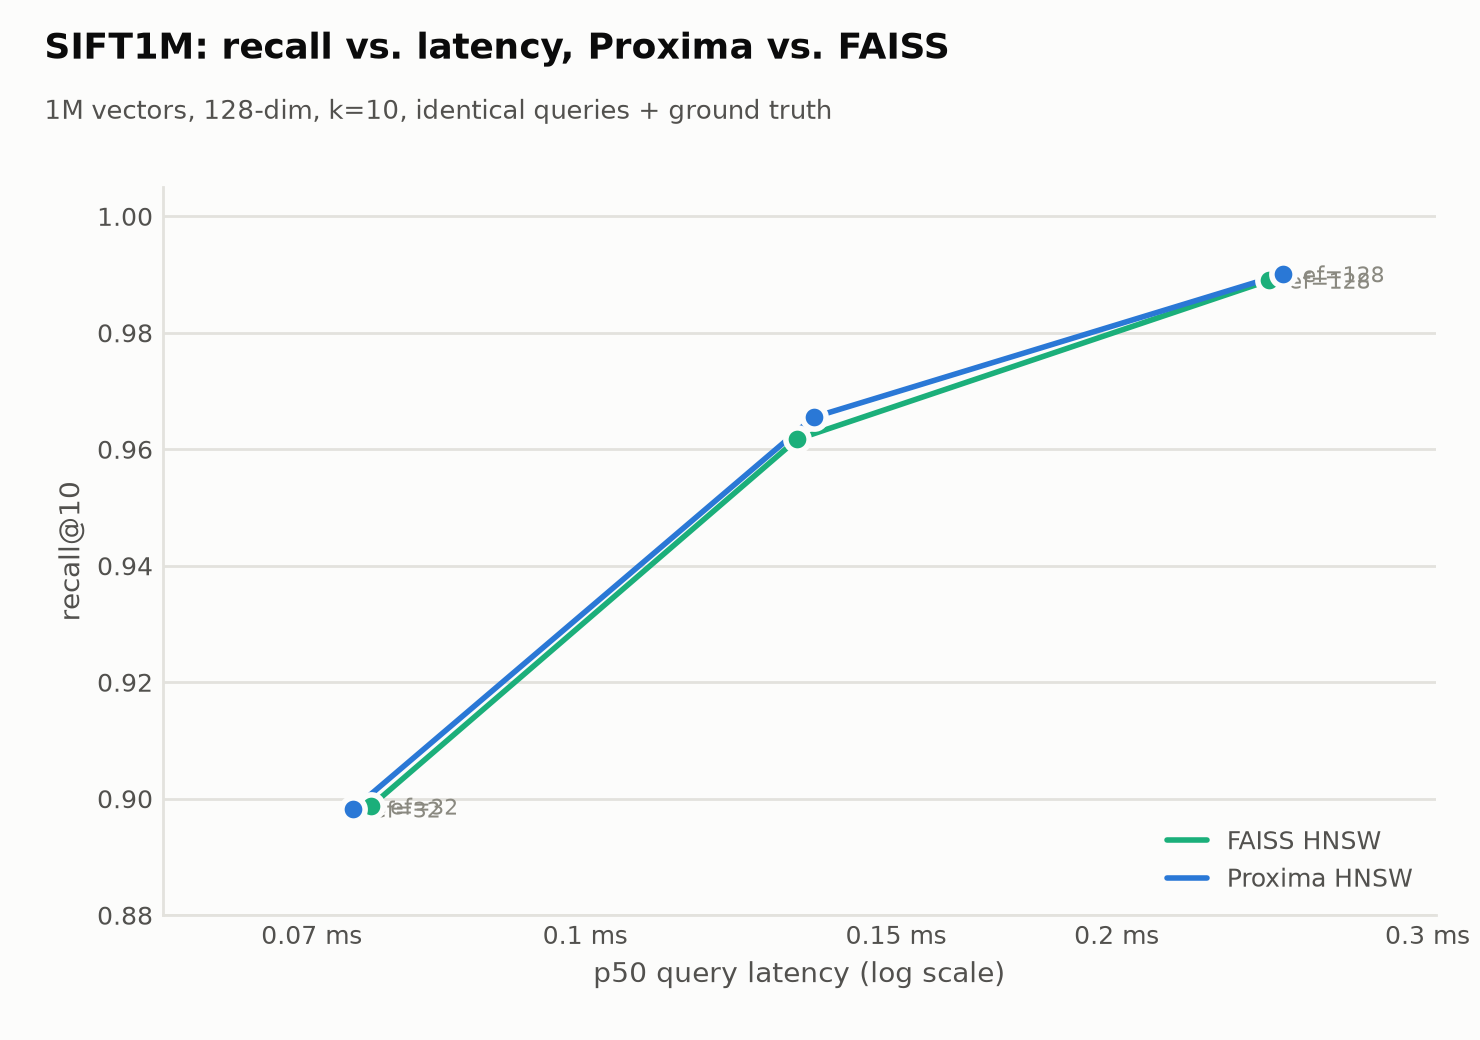
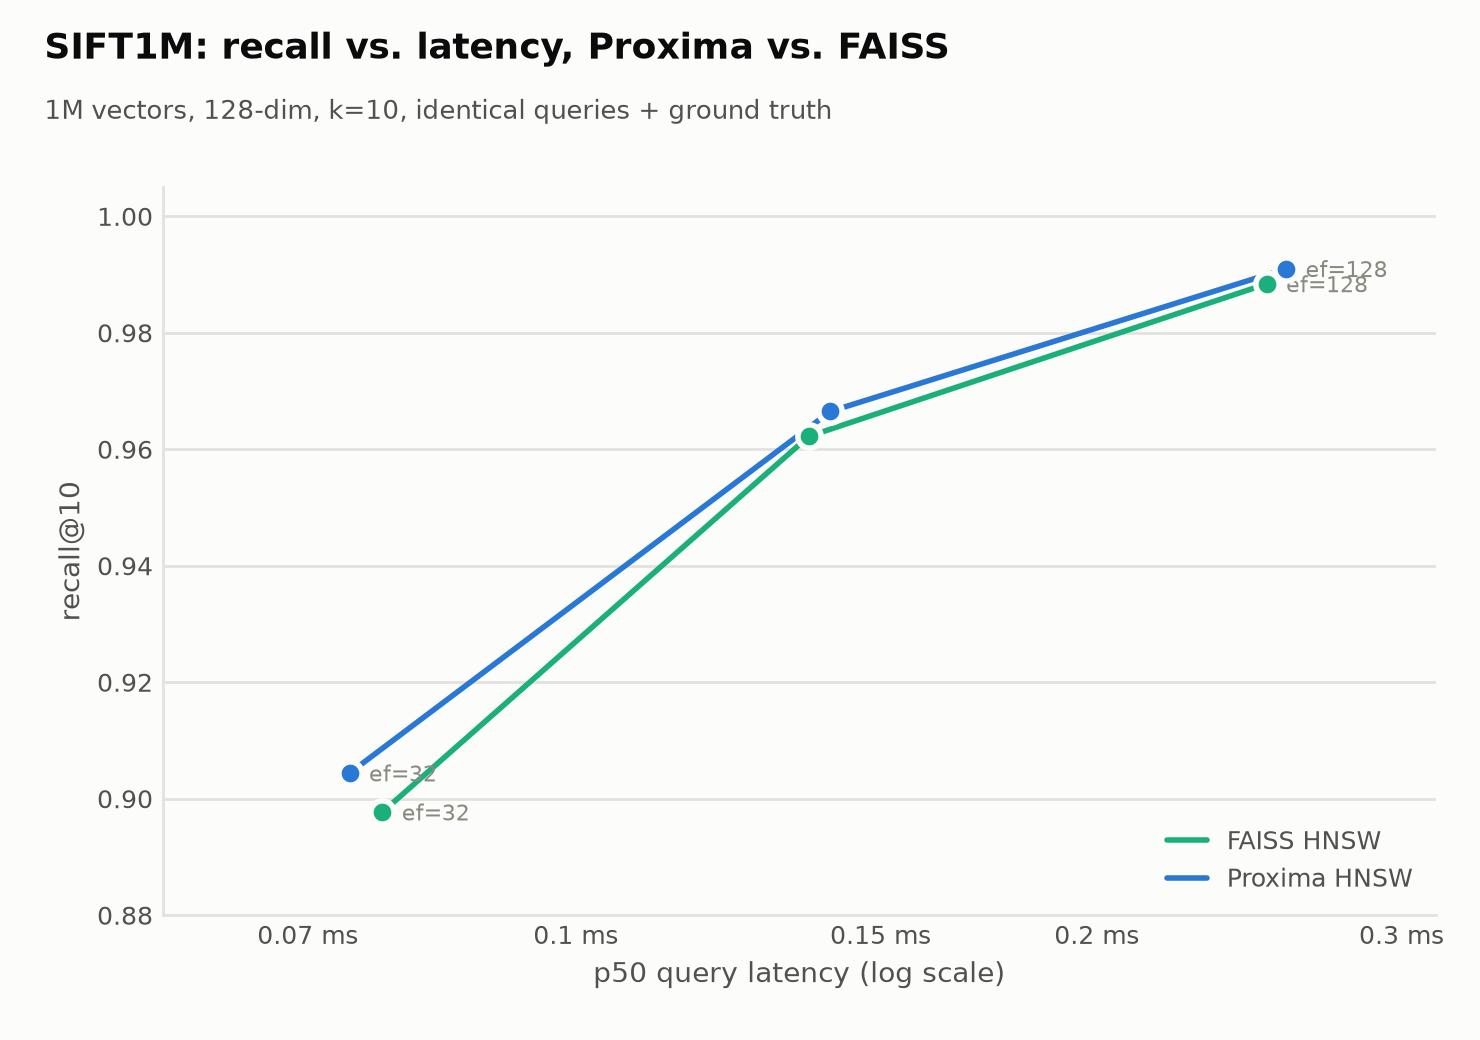
Take the median of seven timed passes for throughput, and correct the FAISS comparison

diff --git a/demo/static/index.html b/demo/static/index.html
@@ -215,7 +215,7 @@
     <p class="sub">
       Proxima does that <b>from scratch, in Rust</b>: no managed API, no vector database,
       no shortcuts for the search itself. Type a query below and watch a hand-written graph
-      index called HNSW navigate a million Wikipedia articles to find the closest match by
+      index called HNSW navigate a corpus of Wikipedia articles to find the closest match by
       <b>meaning</b>, not keywords.
     </p>
     <div class="proof" id="proof"></div>
@@ -264,7 +264,7 @@
       <div class="stat-grid">
         <div class="stat"><div class="stat-v">99%+</div><div class="stat-k">recall@10 vs. exact ground truth</div></div>
         <div class="stat"><div class="stat-v">&lt;1 ms</div><div class="stat-k">p50 latency over 1M vectors</div></div>
-        <div class="stat cmp"><div class="stat-v">~1.3×</div><div class="stat-k">of FAISS on speed, matching its recall</div></div>
+        <div class="stat cmp"><div class="stat-v">~1.2×</div><div class="stat-k">of FAISS’s multi-threaded throughput, matching its recall</div></div>
         <div class="stat"><div class="stat-v">32×</div><div class="stat-k">memory compression via product quantization</div></div>
       </div>
       <p class="h-note">Measured on SIFT1M (1M vectors, held-out queries, exact ground truth) against FAISS, on identical data.</p>

diff --git a/bench/harness.py b/bench/harness.py
@@ -6,6 +6,7 @@ import platform
 import socket
 import subprocess
 import sys
+import statistics
 import time
 from dataclasses import asdict, dataclass
 from datetime import datetime, timezone
@@ -18,6 +19,7 @@ from proxima import FlatIndex, Metric
 SCHEMA_VERSION = 1
 REPO_ROOT = Path(__file__).resolve().parent.parent
 LATENCY_SAMPLES = 10_000
+THROUGHPUT_TRIALS = 7
 LATENCY_SEED = 20240917
 
 
@@ -253,12 +255,16 @@ def measure_latency(index, queries: np.ndarray, k: int,
             float(times.mean()), int(samples))
 
 
-def measure_throughput(index, queries: np.ndarray, k: int, num_threads: int) -> float:
+def measure_throughput(index, queries: np.ndarray, k: int, num_threads: int,
+                       trials: int = THROUGHPUT_TRIALS) -> float:
     index.search_batch(queries[: min(64, len(queries))], k=k, num_threads=num_threads)
-    t0 = time.perf_counter()
-    index.search_batch(queries, k=k, num_threads=num_threads)
-    dt = time.perf_counter() - t0
-    return len(queries) / dt if dt > 0 else float("inf")
+    rates = []
+    for _ in range(max(1, trials)):
+        t0 = time.perf_counter()
+        index.search_batch(queries, k=k, num_threads=num_threads)
+        dt = time.perf_counter() - t0
+        rates.append(len(queries) / dt if dt > 0 else float("inf"))
+    return statistics.median(rates)
 
 
 def benchmark_index(name: str, index, queries: np.ndarray, k: int,

diff --git a/README.md b/README.md
@@ -4,7 +4,7 @@
 
 > Search by *meaning*, not keywords. Type "a quiet beach town in southern Europe" and get the most semantically similar items from a corpus of millions, in milliseconds. It's the same kind of retrieval that sits underneath vector databases and the RAG layer of most modern AI systems.
 
-Proxima is an **approximate nearest-neighbor (ANN) vector search engine**, built from the ground up. It has a hand-written **HNSW** graph index, an exact brute-force baseline, **product quantization** for memory compression, and a benchmark harness that checks recall, latency, and memory against exact ground truth and head-to-head against [FAISS](https://github.com/facebookresearch/faiss) on SIFT1M, matching its recall at every operating point, with comparable single-query latency and about 1.2× its multi-threaded throughput.
+Proxima is an **approximate nearest-neighbor (ANN) vector search engine**, built from the ground up. It has a hand-written **HNSW** graph index, an exact brute-force baseline, **product quantization** for memory compression, and a benchmark harness that checks recall, latency, and memory against exact ground truth and head-to-head against [FAISS](https://github.com/facebookresearch/faiss) on SIFT1M, matching its recall at every operating point and tracking its HNSW throughput to within about 10% either way (FAISS still leads clearly on batched exact-flat).
 
 🚀 **[Deploy the demo](docs/DEPLOY.md)** to a free hosted URL.
 
@@ -55,23 +55,23 @@ The canonical 1M-vector ANN benchmark (128-dim, **held-out** queries + exact gro
 
 | index | recall@10 | p50 (ms) | QPS (1t) | QPS (mt) | mem |
 |-------|----------:|---------:|---------:|---------:|----:|
-| **PX** Flat (exact) | 0.999 | 9.91 | 103 | 159 | 512 MB |
-| **PX** HNSW `ef=32` | 0.898 | 0.074 | 13,059 | **79,405** | 684 MB |
-| **PX** HNSW `ef=64` | 0.966 | 0.135 | 7,640 | **47,125** | 684 MB |
-| **PX** HNSW `ef=128` | 0.990 | 0.249 | 4,007 | **25,561** | 684 MB |
-| **PX** PQ `m=16` | 0.538 | 7.50 | 134 | 992 | **16 MB** |
-| FAISS Flat | 0.999 | 12.70 | 643 | 744 | 512 MB |
-| FAISS HNSW `ef=32` | 0.899 | 0.076 | 14,418 | 73,855 | 656 MB |
-| FAISS HNSW `ef=64` | 0.962 | 0.132 | 8,152 | 38,215 | 656 MB |
-| FAISS HNSW `ef=128` | 0.989 | 0.244 | 4,069 | 23,178 | 656 MB |
-| FAISS PQ `m=16` | 0.532 | 7.74 | 129 | 982 | 16 MB |
+| **PX** Flat (exact) | 0.999 | 9.94 | 103 | 158 | 512 MB |
+| **PX** HNSW `ef=32` | 0.904 | 0.074 | 13,075 | 84,274 | 685 MB |
+| **PX** HNSW `ef=64` | 0.966 | 0.140 | 7,237 | 40,694 | 685 MB |
+| **PX** HNSW `ef=128` | 0.991 | 0.257 | 3,969 | 25,547 | 685 MB |
+| **PX** PQ `m=16` | 0.538 | 7.67 | 126 | 955 | **16 MB** |
+| FAISS Flat | 0.999 | 13.41 | 596 | 782 | 512 MB |
+| FAISS HNSW `ef=32` | 0.898 | 0.077 | 14,115 | 77,396 | 656 MB |
+| FAISS HNSW `ef=64` | 0.962 | 0.136 | 7,880 | 45,091 | 656 MB |
+| FAISS HNSW `ef=128` | 0.988 | 0.251 | 3,950 | 24,019 | 656 MB |
+| FAISS PQ `m=16` | 0.532 | 8.13 | 121 | 957 | 16 MB |
 
 **Takeaways:**
 - **Recall matches FAISS** at every operating point: Proxima's HNSW graph and PQ codebooks are correct (recall is even marginally higher, e.g. 0.966 vs 0.962 at ef=64).
-- **Single-query latency is a wash; multi-threaded throughput runs ahead.** At ef=64 the p50 is 0.135 ms against FAISS's 0.132 ms, but across all cores Proxima sustains 47.1k QPS to FAISS's 38.2k. The same holds at ef=32 and ef=128. FAISS keeps a small edge single-threaded.
+- **Throughput is at parity, not ahead.** Across all cores the ratio to FAISS is 1.09× at ef=32, 0.90× at ef=64 and 1.06× at ef=128 — it lands on either side of even depending on the operating point, so the honest summary is a tie within noise rather than a win. Each figure is the median of 7 timed passes; a single pass moves them by more than the gap. FAISS keeps a small edge single-threaded.
 - **PQ compresses 512 MB down to 16 MB (32×)** with the same recall tradeoff as FAISS PQ.
-- **HNSW build is parallelized** across cores (rayon, per-node locking; the query path stays lock-free), finishing the full 1M-vector SIFT index in **41 s** against FAISS's 60 s.
-- **Where FAISS still wins, and why:** batched exact-flat throughput. FAISS uses a BLAS GEMM; Proxima uses a straightforward SIMD scan, about 6× slower on that path (643 vs 103 QPS). Single-query flat latency actually favours Proxima (9.9 ms vs 12.7 ms) — the GEMM only pays off once the batch is large. A blocked matmul would close it; it is not a correctness problem.
+- **HNSW build is parallelized** across cores (rayon, per-node locking; the query path stays lock-free), finishing the full 1M-vector SIFT index in **43 s** against FAISS's 57 s.
+- **Where FAISS still wins, and why:** batched exact-flat throughput. FAISS uses a BLAS GEMM; Proxima uses a straightforward SIMD scan, about 5× slower on that path (782 vs 158 QPS multi-threaded). Single-query flat latency actually favours Proxima (9.9 ms vs 13.4 ms) — the GEMM only pays off once the batch is large. A blocked matmul would close it; it is not a correctness problem.
 
 ![SIFT1M recall vs. latency: Proxima HNSW vs. FAISS HNSW](docs/assets/recall_latency_sift1m.svg)
 
@@ -88,7 +88,7 @@ k=10. Median of three runs on an otherwise idle machine:
 |---|-----:|-----------:|--------:|
 | CPU flat, 1 thread | 24.0 s | 83 q/s | 1× |
 | CPU flat, all cores | 13.6 s | 147 q/s | 1.8× |
-| **GPU exact (CUDA)** | **0.52 s** | **3,851 q/s** | **26.3× / 46.1×** |
+| **GPU exact (CUDA)** | **0.52 s** | **3,851 q/s** | **26.2× / 46.1×** |
 
 The GPU's top-k is cross-checked against the CPU index on every run, with
 **exact agreement (1.0000)** since both are exact algorithms, just at different

diff --git a/docs/DEPLOY.md b/docs/DEPLOY.md
@@ -30,7 +30,7 @@ free, 16 GB RAM, no credit card, and purpose-built for this.
    pinned: false
    ---
    ```
-5. HF builds the image (first build ~10–20 min: it compiles Rust, installs Torch, and embeds 30k articles) and serves at `https://huggingface.co/spaces/<your-username>/proxima`. That URL is what you put on your résumé.
+5. HF builds the image (first build ~10–20 min: it compiles Rust, installs Torch, and embeds 30k articles) and serves at `https://huggingface.co/spaces/<your-username>/proxima`.
 
 **Notes**
 - The corpus is baked at build time, so restarts are fast. To change its size or source, edit the `build_corpus.py` line in the `Dockerfile` (e.g. `--limit 100000`, or `--config 20231101.en` for full English Wikipedia, which needs a larger image and more RAM).
